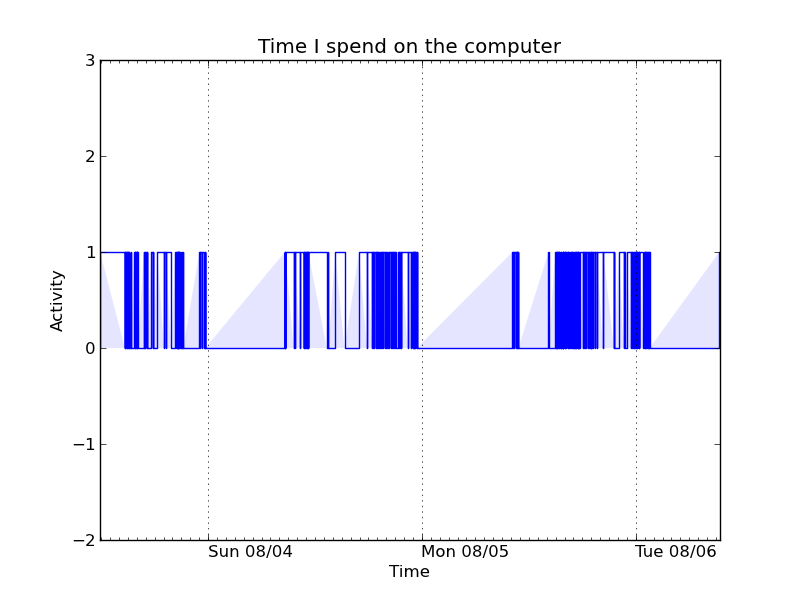
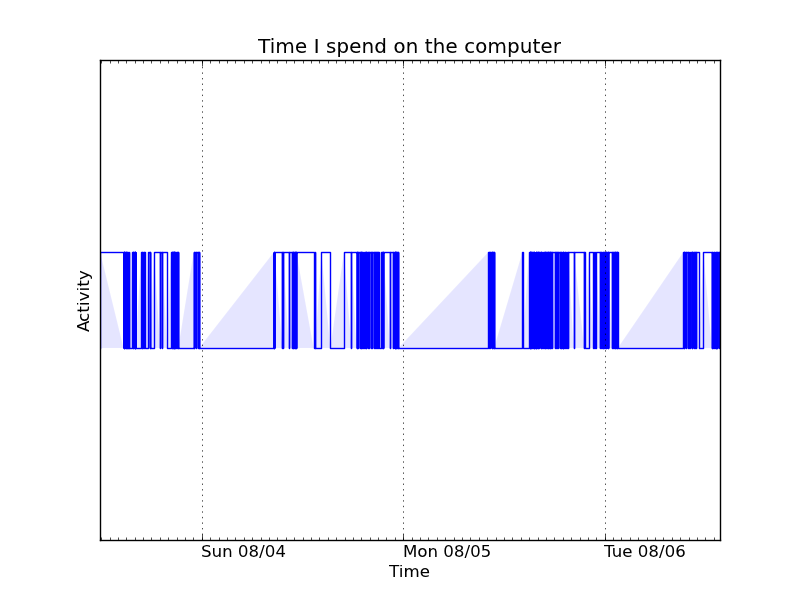
Took yaxis labels and and ticks off, it looks better now. However, I am changing the plot type to make an interval bar plot, more suited for this data.

diff --git a/comptime.py b/comptime.py
@@ -58,7 +58,7 @@ def parseTime(filename):
 	return str2datetime(datetime_strings), word2bool(activity)
 
 
-def makeGraph(data):
+def makePlot(data):
 	"""
 	Make a graph of Time vs. Activity
 
@@ -95,19 +95,58 @@ def makeGraph(data):
 
 	for label in ax.get_xticklabels():
 		label.set_horizontalalignment('left')
-	# pylab.show()
+	ax.set_yticks([])
+	# pylab.show()git 
 	pylab.savefig("plot1.png", bbox_inches=0)
 
 	return
 
 
+def makeBarPlot():
+	import datetime
+	import numpy as np
+	import matplotlib.dates as mdates
+	import matplotlib.pyplot as plt
+
+	# dates for xaxis
+	event_date = [datetime.datetime(2008, 12, 3), datetime.datetime(2009, 1, 5), datetime.datetime(2009, 2, 3)]
+
+	# base date for yaxis can be anything, since information is in the time
+	anydate = datetime.date(2001,1,1)
+
+	# event times
+	event_start = [datetime.time(20, 12), datetime.time(12, 15), datetime.time(8, 1,)]
+	event_finish = [datetime.time(23, 56), datetime.time(16, 5), datetime.time(18, 34)]
+
+	# translate times and dates lists into matplotlib date format numpy arrays
+	start = np.fromiter((mdates.date2num(datetime.datetime.combine(anydate, event)) for event in event_start), dtype = 'float', count = len(event_start))
+	finish = np.fromiter((mdates.date2num(datetime.datetime.combine(anydate, event)) for event in event_finish), dtype = 'float', count = len(event_finish))
+	date = mdates.date2num(event_date)
+
+	# calculate events durations
+	duration = finish - start
+
+	fig = plt.figure()
+	ax = fig.add_subplot(1, 1, 1)
+
+	# use errorbar to represent event duration
+	ax.errorbar(date, start, [np.zeros(len(duration)), duration], linestyle = '')
+	# make matplotlib treat both axis as times
+	ax.xaxis_date()
+	ax.yaxis_date()
+
+	plt.show()
+	return
+
+
 def main():
 	data = parseTime(FILE)
-	makeGraph(data)
+	makePlot(data)
 	return
 
 if __name__ == "__main__":
 
-	sys.exit(main())
+	# sys.exit(main())
+	makeBarPlot()
 
 
